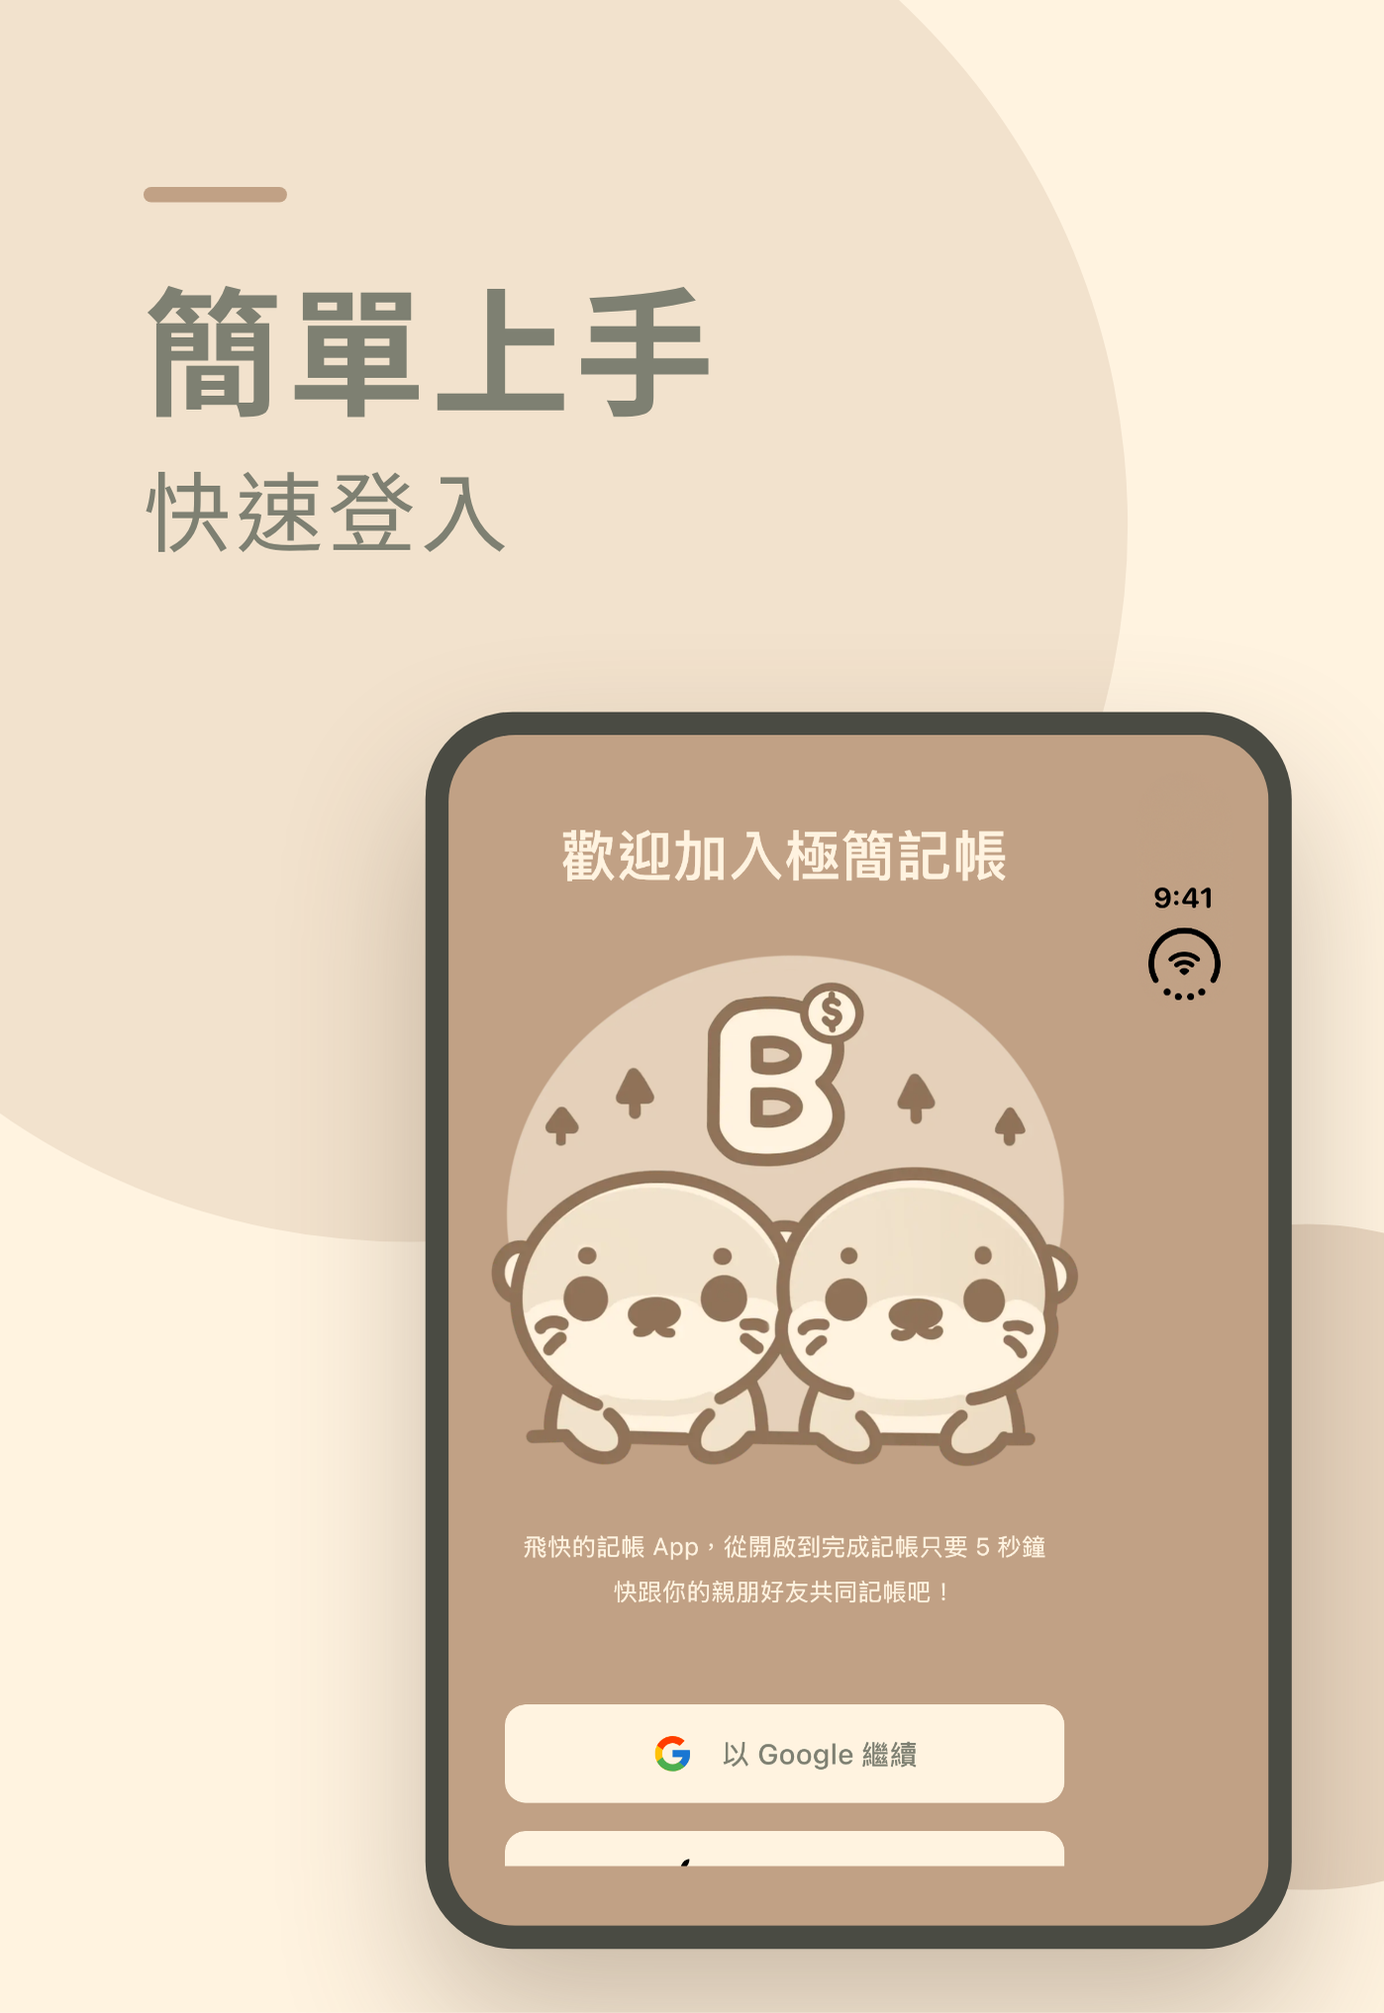
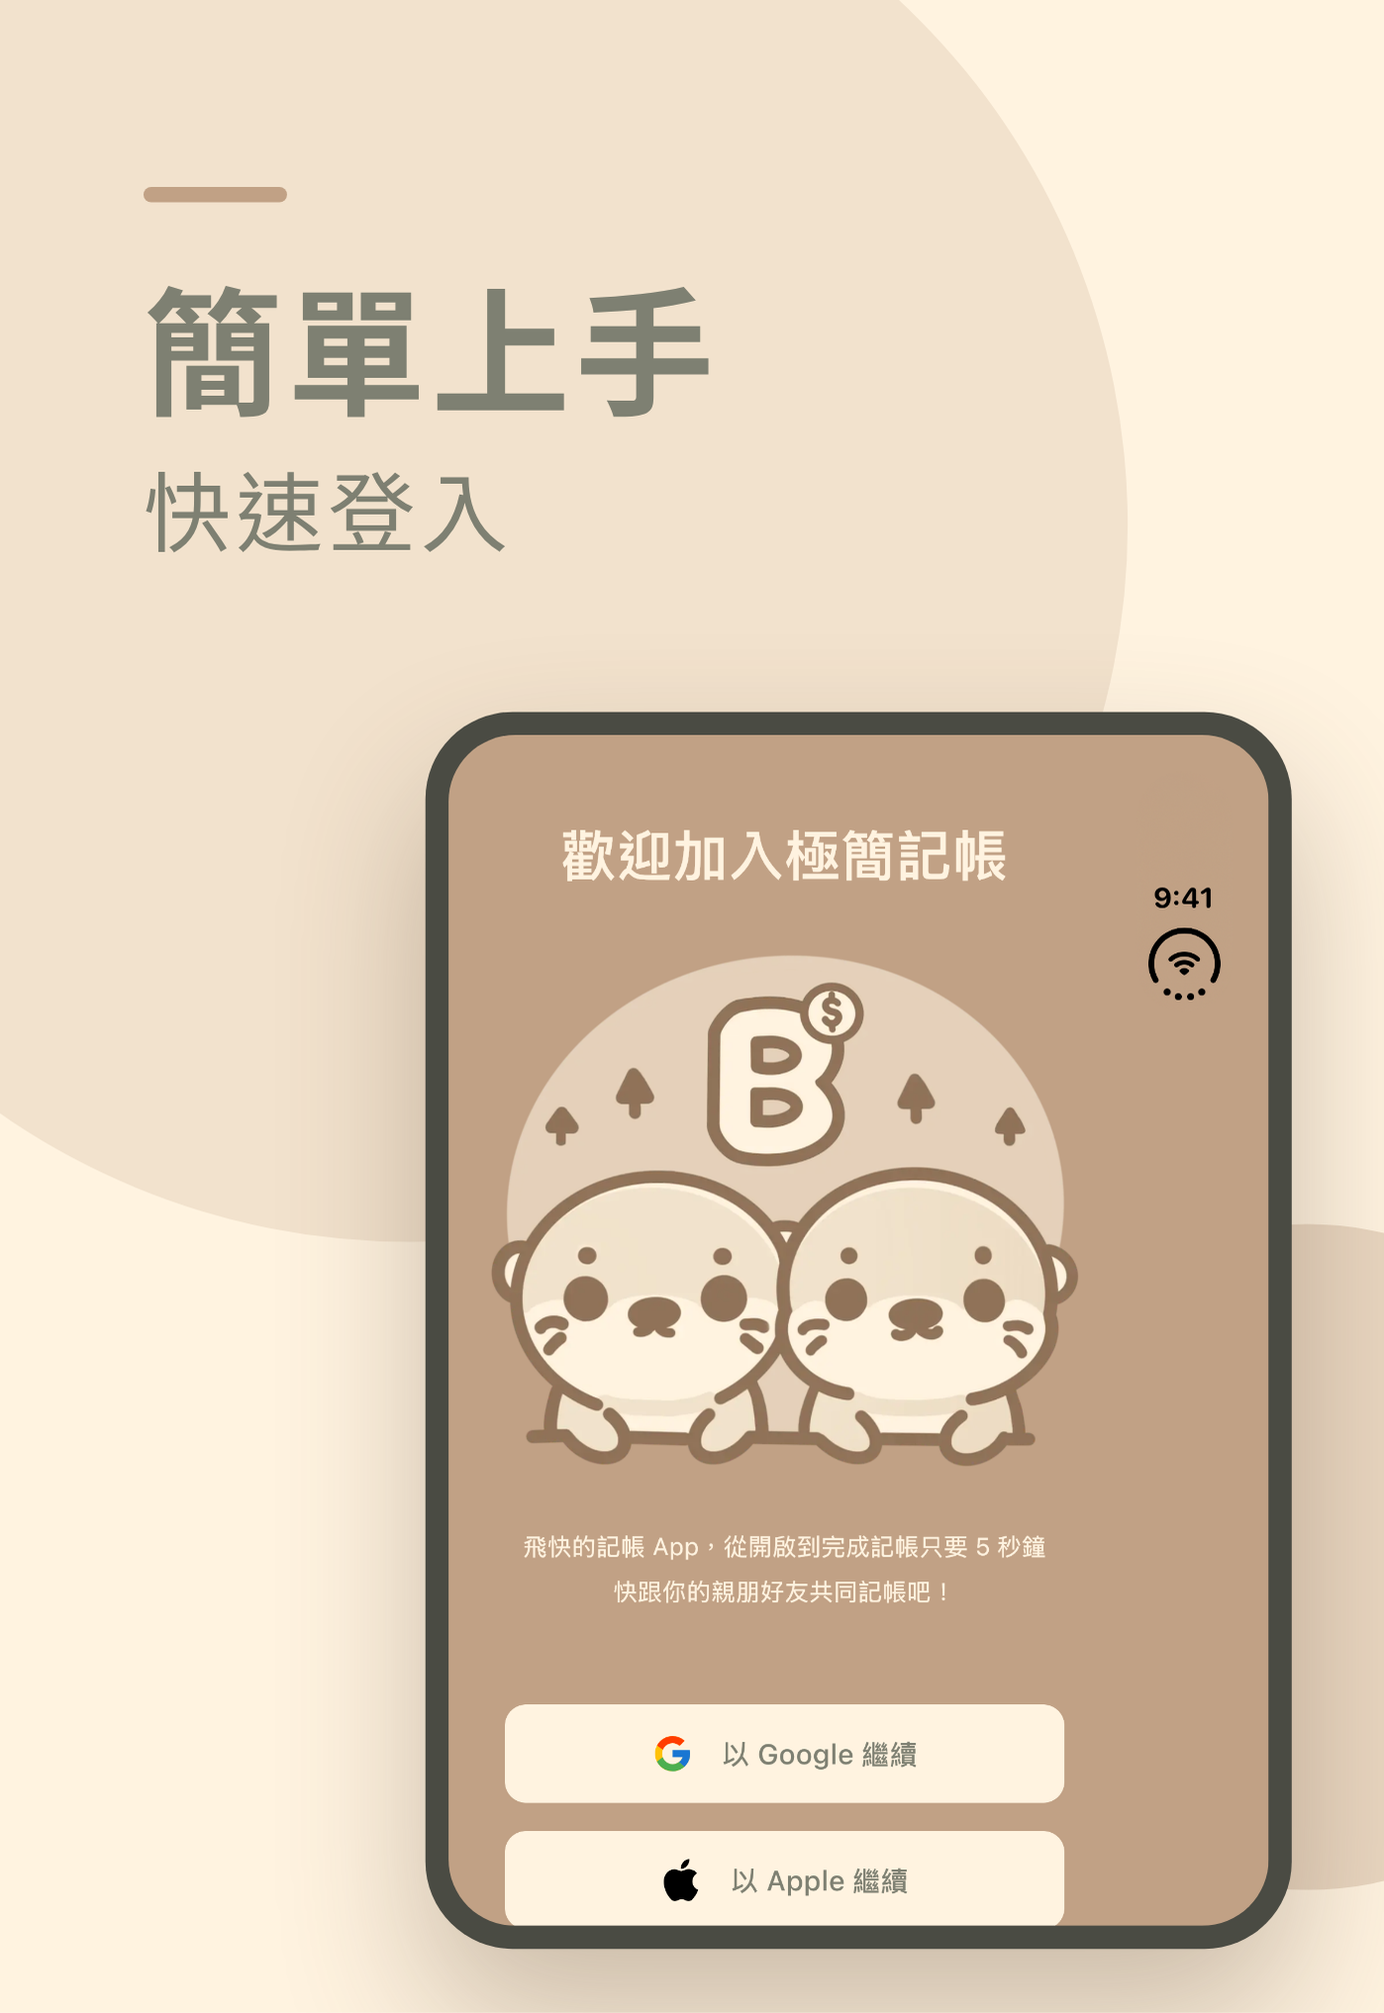
Replace fade navigation transitions with a short slide, use safe area insets on auth (#893)
* Use safe area insets on the auth screen

* Replace fade navigation transitions with a short slide

Push slides both screens 15% towards the start while the new screen
quickly fades in on top. Pop and predictive back are the reverse, with
the current screen fading out towards the end. Only the screen on top
fades, and only while the screen underneath covers almost the whole
container, so the background doesn't blink through, e.g. the top bar.

Only screens pushed right on top of the current one animate. Switching
bottom nav tabs doesn't, even when it brings up a screen opened on top
of a tab, and Auth/Welcome keep a crossfade.

* Keep swiping until the Expense tab is visible in UI tests

Entering a price scrolls the record info all the way down to keep the
price visible. With an extra category from an earlier flow, a single
swipe within the band doesn't scroll back far enough to reveal the
record type tabs, so 44-record-multi-select-delete failed its first
attempt on most runs. Retry the guarded swipe until the tab is visible,
in add-record.yml and 05-add-income.yml.

Changed region(s): [[0.3383, 0.9292, 0.769, 0.9602]]

diff --git a/core/ui/src/commonMain/kotlin/com/kevlina/budgetplus/core/ui/NavTransitions.kt b/core/ui/src/commonMain/kotlin/com/kevlina/budgetplus/core/ui/NavTransitions.kt
@@ -1,0 +1,97 @@
+package com.kevlina.budgetplus.core.ui
+
+import androidx.compose.animation.AnimatedContentTransitionScope
+import androidx.compose.animation.AnimatedContentTransitionScope.SlideDirection
+import androidx.compose.animation.ContentTransform
+import androidx.compose.animation.EnterTransition
+import androidx.compose.animation.ExitTransition
+import androidx.compose.animation.core.FastOutSlowInEasing
+import androidx.compose.animation.core.LinearEasing
+import androidx.compose.animation.core.tween
+import androidx.compose.animation.fadeIn
+import androidx.compose.animation.fadeOut
+import androidx.compose.animation.togetherWith
+import androidx.compose.ui.unit.IntOffset
+
+/**
+ * Navigation transitions for the screens in a nav display, a slide along the X axis, similar to
+ * the Android 14 activity transitions.
+ *
+ * - Push: both screens slide a short distance towards the start, and the new screen quickly fades
+ *   in on top of the current one.
+ * - Pop: the opposite of push, the current screen fades out towards the end. Predictive back uses
+ *   the same transition, so the gesture scrubs through it.
+ * - None: for switching between top level destinations, e.g. the bottom nav tabs.
+ *
+ * Only the screen on top fades, and only while the screen underneath covers almost the whole
+ * container. Otherwise the background would show through the semi-transparent screen, e.g. the
+ * top bar color would blink.
+ */
+object NavTransitions {
+
+    fun <S> AnimatedContentTransitionScope<S>.push(): ContentTransform {
+        return slideIntoContainer(
+            towards = SlideDirection.Start,
+            initialOffset = ::slideOffset,
+            animationSpec = slideSpec,
+        ) + fadeIn(
+            animationSpec = fadeInSpec,
+        ) togetherWith slideOutOfContainer(
+            towards = SlideDirection.Start,
+            targetOffset = ::slideOffset,
+            animationSpec = slideSpec,
+        )
+    }
+
+    fun <S> AnimatedContentTransitionScope<S>.pop(): ContentTransform {
+        return slideIntoContainer(
+            towards = SlideDirection.End,
+            initialOffset = ::slideOffset,
+            animationSpec = slideSpec,
+        ) togetherWith slideOutOfContainer(
+            towards = SlideDirection.End,
+            targetOffset = ::slideOffset,
+            animationSpec = slideSpec,
+        ) + fadeOut(
+            animationSpec = fadeOutSpec,
+        )
+    }
+
+    fun none(): ContentTransform = EnterTransition.None togetherWith ExitTransition.None
+
+    fun crossfade(): ContentTransform = fadeIn() togetherWith fadeOut()
+
+    private fun slideOffset(fullOffset: Int): Int = (fullOffset * OFFSET_FRACTION).toInt()
+
+    /** How far both screens slide, as a fraction of the width. */
+    private const val OFFSET_FRACTION = 0.15F
+
+    /** Total duration of the transition, which is also the duration of the slide. */
+    private const val DURATION = 300
+
+    /**
+     * How long the new screen takes to fade in when pushed. It's short, because the screen
+     * underneath uncovers more of the background as it slides away.
+     */
+    private const val FADE_IN_DURATION = 90
+
+    /**
+     * How long the current screen takes to fade out at the end when popped. It can be longer,
+     * because the previous screen covers more of the background as it slides in.
+     */
+    private const val FADE_OUT_DURATION = 180
+
+    private val slideSpec = tween<IntOffset>(
+        durationMillis = DURATION,
+        easing = FastOutSlowInEasing,
+    )
+    private val fadeInSpec = tween<Float>(
+        durationMillis = FADE_IN_DURATION,
+        easing = LinearEasing,
+    )
+    private val fadeOutSpec = tween<Float>(
+        durationMillis = FADE_OUT_DURATION,
+        delayMillis = DURATION - FADE_OUT_DURATION,
+        easing = LinearEasing,
+    )
+}

diff --git a/shared/src/commonMain/kotlin/com/kevlina/budgetplus/book/ui/BookBinding.kt b/shared/src/commonMain/kotlin/com/kevlina/budgetplus/book/ui/BookBinding.kt
@@ -1,8 +1,6 @@
 package com.kevlina.budgetplus.book.ui
 
-import androidx.compose.animation.ContentTransform
-import androidx.compose.animation.fadeIn
-import androidx.compose.animation.fadeOut
+import androidx.compose.animation.AnimatedContentTransitionScope
 import androidx.compose.foundation.background
 import androidx.compose.foundation.layout.Box
 import androidx.compose.foundation.layout.Column
@@ -34,6 +32,7 @@ import androidx.lifecycle.compose.collectAsStateWithLifecycle
 import androidx.lifecycle.repeatOnLifecycle
 import androidx.lifecycle.viewmodel.navigation3.rememberViewModelStoreNavEntryDecorator
 import androidx.navigation3.runtime.rememberSaveableStateHolderNavEntryDecorator
+import androidx.navigation3.scene.Scene
 import androidx.navigation3.ui.NavDisplay
 import coil3.compose.LocalPlatformContext
 import com.kevlina.budgetplus.book.BookViewModel
@@ -46,6 +45,9 @@ import com.kevlina.budgetplus.core.common.nav.BookDest
 import com.kevlina.budgetplus.core.theme.LocalAppColors
 import com.kevlina.budgetplus.core.theme.ThemeColors
 import com.kevlina.budgetplus.core.ui.LocalTopBarActionsHost
+import com.kevlina.budgetplus.core.ui.NavTransitions
+import com.kevlina.budgetplus.core.ui.NavTransitions.pop
+import com.kevlina.budgetplus.core.ui.NavTransitions.push
 import com.kevlina.budgetplus.core.ui.Scaffold
 import com.kevlina.budgetplus.core.ui.SnackbarHost
 import com.kevlina.budgetplus.core.ui.TopBarActionsHost
@@ -204,6 +206,16 @@ internal fun BookBinding(
     }
 }
 
+/**
+ * Whether the target screen is pushed right on top of the current one. Switching the bottom nav
+ * tabs reorders the back stack instead, e.g. going back to a tab that has another screen on top of
+ * its root, which shouldn't animate like a push.
+ */
+private fun <T : Any> AnimatedContentTransitionScope<Scene<T>>.isPushedOnTop(): Boolean {
+    val currentTop = initialState.entries.lastOrNull() ?: return false
+    return targetState.previousEntries.lastOrNull()?.contentKey == currentTop.contentKey
+}
+
 private val lightBackgroundNavKeys = setOf(BookDest.Welcome::class, BookDest.UnlockPremium::class)
 
 private val SideColumnSnackbarSpacing = 16.dp
@@ -227,9 +239,9 @@ private fun BookContent(
                 rememberViewModelStoreNavEntryDecorator()
             ),
             onBack = vm.navController::navigateUp,
-            transitionSpec = { ContentTransform(fadeIn(), fadeOut()) },
-            popTransitionSpec = { ContentTransform(fadeIn(), fadeOut()) },
-            predictivePopTransitionSpec = { ContentTransform(fadeIn(), fadeOut()) },
+            transitionSpec = { if (isPushedOnTop()) push() else NavTransitions.none() },
+            popTransitionSpec = { pop() },
+            predictivePopTransitionSpec = { pop() },
             modifier = Modifier
                 .weight(1F)
                 .fillMaxWidth()

diff --git a/shared/src/commonMain/kotlin/com/kevlina/budgetplus/book/ui/BookNavGraph.kt b/shared/src/commonMain/kotlin/com/kevlina/budgetplus/book/ui/BookNavGraph.kt
@@ -2,8 +2,10 @@ package com.kevlina.budgetplus.book.ui
 
 import androidx.compose.runtime.LaunchedEffect
 import androidx.navigation3.runtime.NavEntry
+import androidx.navigation3.ui.NavDisplay
 import com.kevlina.budgetplus.core.common.UiTestFlags
 import com.kevlina.budgetplus.core.common.nav.BookDest
+import com.kevlina.budgetplus.core.ui.NavTransitions
 import com.kevlina.budgetplus.feature.add.record.ui.RecordScreen
 import com.kevlina.budgetplus.feature.auth.AuthViewModel
 import com.kevlina.budgetplus.feature.auth.ui.AuthBinding
@@ -24,9 +26,22 @@ import com.kevlina.budgetplus.feature.welcome.ui.WelcomeBinding
 import dev.zacsweers.metrox.viewmodel.assistedMetroViewModel
 import dev.zacsweers.metrox.viewmodel.metroViewModel
 
+/**
+ * Top level destinations have no hierarchy between them, so they don't slide like the screens
+ * pushed on top of them. Switching to them doesn't animate when they're bottom nav tabs, and
+ * crossfades otherwise.
+ */
+private val rootDestMetadata: Map<String, Any> = NavDisplay.transitionSpec { NavTransitions.crossfade() } +
+    NavDisplay.popTransitionSpec { NavTransitions.crossfade() } +
+    NavDisplay.predictivePopTransitionSpec { NavTransitions.crossfade() }
+
+private val bottomTabDestMetadata: Map<String, Any> = NavDisplay.transitionSpec { NavTransitions.none() } +
+    NavDisplay.popTransitionSpec { NavTransitions.none() } +
+    NavDisplay.predictivePopTransitionSpec { NavTransitions.none() }
+
 internal fun bookNavGraph(bookDest: BookDest): NavEntry<BookDest> {
     return when (bookDest) {
-        is BookDest.Auth -> NavEntry(bookDest) {
+        is BookDest.Auth -> NavEntry(bookDest, metadata = rootDestMetadata) {
             val vm = metroViewModel<AuthViewModel>()
             LaunchedEffect(bookDest) {
                 // Test auth is anonymous against the emulator. A device's saved Google
@@ -50,11 +65,11 @@ internal fun bookNavGraph(bookDest: BookDest): NavEntry<BookDest> {
             }
         }
 
-        BookDest.Welcome -> NavEntry(bookDest) {
+        BookDest.Welcome -> NavEntry(bookDest, metadata = rootDestMetadata) {
             WelcomeBinding()
         }
 
-        BookDest.Record -> NavEntry(bookDest) {
+        BookDest.Record -> NavEntry(bookDest, metadata = bottomTabDestMetadata) {
             RecordScreen()
         }
 
@@ -88,7 +103,7 @@ internal fun bookNavGraph(bookDest: BookDest): NavEntry<BookDest> {
             )
         }
 
-        BookDest.Overview -> NavEntry(bookDest) {
+        BookDest.Overview -> NavEntry(bookDest, metadata = bottomTabDestMetadata) {
             OverviewScreen()
         }
 

diff --git a/feature/auth/src/commonMain/kotlin/com/kevlina/budgetplus/feature/auth/ui/AuthContent.kt b/feature/auth/src/commonMain/kotlin/com/kevlina/budgetplus/feature/auth/ui/AuthContent.kt
@@ -5,12 +5,14 @@ import androidx.compose.foundation.layout.Arrangement
 import androidx.compose.foundation.layout.Box
 import androidx.compose.foundation.layout.Column
 import androidx.compose.foundation.layout.Spacer
+import androidx.compose.foundation.layout.WindowInsets
 import androidx.compose.foundation.layout.fillMaxHeight
 import androidx.compose.foundation.layout.fillMaxSize
 import androidx.compose.foundation.layout.fillMaxWidth
 import androidx.compose.foundation.layout.height
 import androidx.compose.foundation.layout.padding
 import androidx.compose.foundation.layout.size
+import androidx.compose.foundation.layout.windowInsetsPadding
 import androidx.compose.foundation.rememberScrollState
 import androidx.compose.foundation.verticalScroll
 import androidx.compose.runtime.Composable
@@ -22,6 +24,7 @@ import com.kevlina.budgetplus.core.theme.LocalAppColors
 import com.kevlina.budgetplus.core.ui.AppTheme
 import com.kevlina.budgetplus.core.ui.InfiniteCircularProgress
 import com.kevlina.budgetplus.core.ui.containerPadding
+import com.kevlina.budgetplus.core.ui.safeArea
 import com.kevlina.budgetplus.feature.auth.isAppleSignInAvailable
 
 @Composable
@@ -43,6 +46,7 @@ fun AuthContent(
                 .fillMaxHeight()
                 .verticalScroll(rememberScrollState())
                 .containerPadding()
+                .windowInsetsPadding(WindowInsets.safeArea)
                 .padding(vertical = 32.dp)
         ) {
 
@@ -87,6 +91,12 @@ fun AuthContent(
 @Preview
 @Composable
 private fun AuthContent_Preview() = AppTheme {
+    AuthContent(signInWithGoogle = {}, signInWithApple = {}, isLoading = false)
+}
+
+@Preview(heightDp = 480)
+@Composable
+private fun AuthContentCompact_Preview() = AppTheme {
     AuthContent(signInWithGoogle = {}, signInWithApple = {}, isLoading = false)
 }
 

diff --git a/insiderApp/src/main/kotlin/com/kevlina/budgetplus/insider/app/main/ui/InsiderBinding.kt b/insiderApp/src/main/kotlin/com/kevlina/budgetplus/insider/app/main/ui/InsiderBinding.kt
@@ -1,8 +1,5 @@
 package com.kevlina.budgetplus.insider.app.main.ui
 
-import androidx.compose.animation.ContentTransform
-import androidx.compose.animation.fadeIn
-import androidx.compose.animation.fadeOut
 import androidx.compose.foundation.layout.Box
 import androidx.compose.foundation.layout.Column
 import androidx.compose.foundation.layout.fillMaxSize
@@ -22,6 +19,8 @@ import androidx.navigation3.ui.NavDisplay
 import com.kevlina.budgetplus.core.common.SnackbarData
 import com.kevlina.budgetplus.core.common.consumeEach
 import com.kevlina.budgetplus.core.common.nav.InsiderDest
+import com.kevlina.budgetplus.core.ui.NavTransitions.pop
+import com.kevlina.budgetplus.core.ui.NavTransitions.push
 import com.kevlina.budgetplus.core.ui.Scaffold
 import com.kevlina.budgetplus.core.ui.SnackbarHost
 import com.kevlina.budgetplus.feature.auth.AuthViewModel
@@ -81,9 +80,9 @@ internal fun InsiderBinding(vm: InsiderRootViewModel = metroViewModel()) {
                         rememberSaveableStateHolderNavEntryDecorator(),
                         rememberViewModelStoreNavEntryDecorator()
                     ),
-                    transitionSpec = { ContentTransform(fadeIn(), fadeOut()) },
-                    popTransitionSpec = { ContentTransform(fadeIn(), fadeOut()) },
-                    predictivePopTransitionSpec = { ContentTransform(fadeIn(), fadeOut()) },
+                    transitionSpec = { push() },
+                    popTransitionSpec = { pop() },
+                    predictivePopTransitionSpec = { pop() },
                     modifier = Modifier
                         .weight(1F)
                         .fillMaxWidth()

diff --git a/feature/auth/src/commonMain/kotlin/com/kevlina/budgetplus/feature/auth/ui/AuthContentWide.kt b/feature/auth/src/commonMain/kotlin/com/kevlina/budgetplus/feature/auth/ui/AuthContentWide.kt
@@ -5,10 +5,12 @@ import androidx.compose.foundation.layout.Arrangement
 import androidx.compose.foundation.layout.Box
 import androidx.compose.foundation.layout.Column
 import androidx.compose.foundation.layout.Row
+import androidx.compose.foundation.layout.WindowInsets
 import androidx.compose.foundation.layout.fillMaxSize
 import androidx.compose.foundation.layout.fillMaxWidth
 import androidx.compose.foundation.layout.padding
 import androidx.compose.foundation.layout.size
+import androidx.compose.foundation.layout.windowInsetsPadding
 import androidx.compose.runtime.Composable
 import androidx.compose.ui.Alignment
 import androidx.compose.ui.Modifier
@@ -17,6 +19,7 @@ import androidx.compose.ui.unit.dp
 import com.kevlina.budgetplus.core.theme.LocalAppColors
 import com.kevlina.budgetplus.core.ui.AppTheme
 import com.kevlina.budgetplus.core.ui.InfiniteCircularProgress
+import com.kevlina.budgetplus.core.ui.safeArea
 import com.kevlina.budgetplus.feature.auth.isAppleSignInAvailable
 
 @Composable
@@ -31,6 +34,7 @@ fun AuthContentWide(
         modifier = Modifier
             .fillMaxSize()
             .background(LocalAppColors.current.primary)
+            .windowInsetsPadding(WindowInsets.safeArea)
             .padding(horizontal = 32.dp)
     ) {
 

diff --git a/feature/auth/src/commonMain/kotlin/com/kevlina/budgetplus/feature/auth/ui/AuthBinding.kt b/feature/auth/src/commonMain/kotlin/com/kevlina/budgetplus/feature/auth/ui/AuthBinding.kt
@@ -1,14 +1,16 @@
 package com.kevlina.budgetplus.feature.auth.ui
 
 import androidx.compose.foundation.background
+import androidx.compose.foundation.layout.WindowInsets
 import androidx.compose.foundation.layout.fillMaxSize
-import androidx.compose.foundation.layout.systemBarsPadding
+import androidx.compose.foundation.layout.windowInsetsPadding
 import androidx.compose.runtime.Composable
 import androidx.compose.runtime.getValue
 import androidx.compose.ui.Modifier
 import androidx.lifecycle.compose.collectAsStateWithLifecycle
 import com.kevlina.budgetplus.core.theme.LocalAppColors
 import com.kevlina.budgetplus.core.ui.AdaptiveScreen
+import com.kevlina.budgetplus.core.ui.safeArea
 import com.kevlina.budgetplus.feature.auth.CommonAuthViewModel
 
 @Composable
@@ -22,8 +24,7 @@ fun AuthBinding(
     AdaptiveScreen(
         modifier = Modifier
             .fillMaxSize()
-            .background(LocalAppColors.current.primary)
-            .systemBarsPadding(),
+            .background(LocalAppColors.current.primary),
         regularContent = {
             AuthContent(
                 signInWithGoogle = signInWithGoogle,
